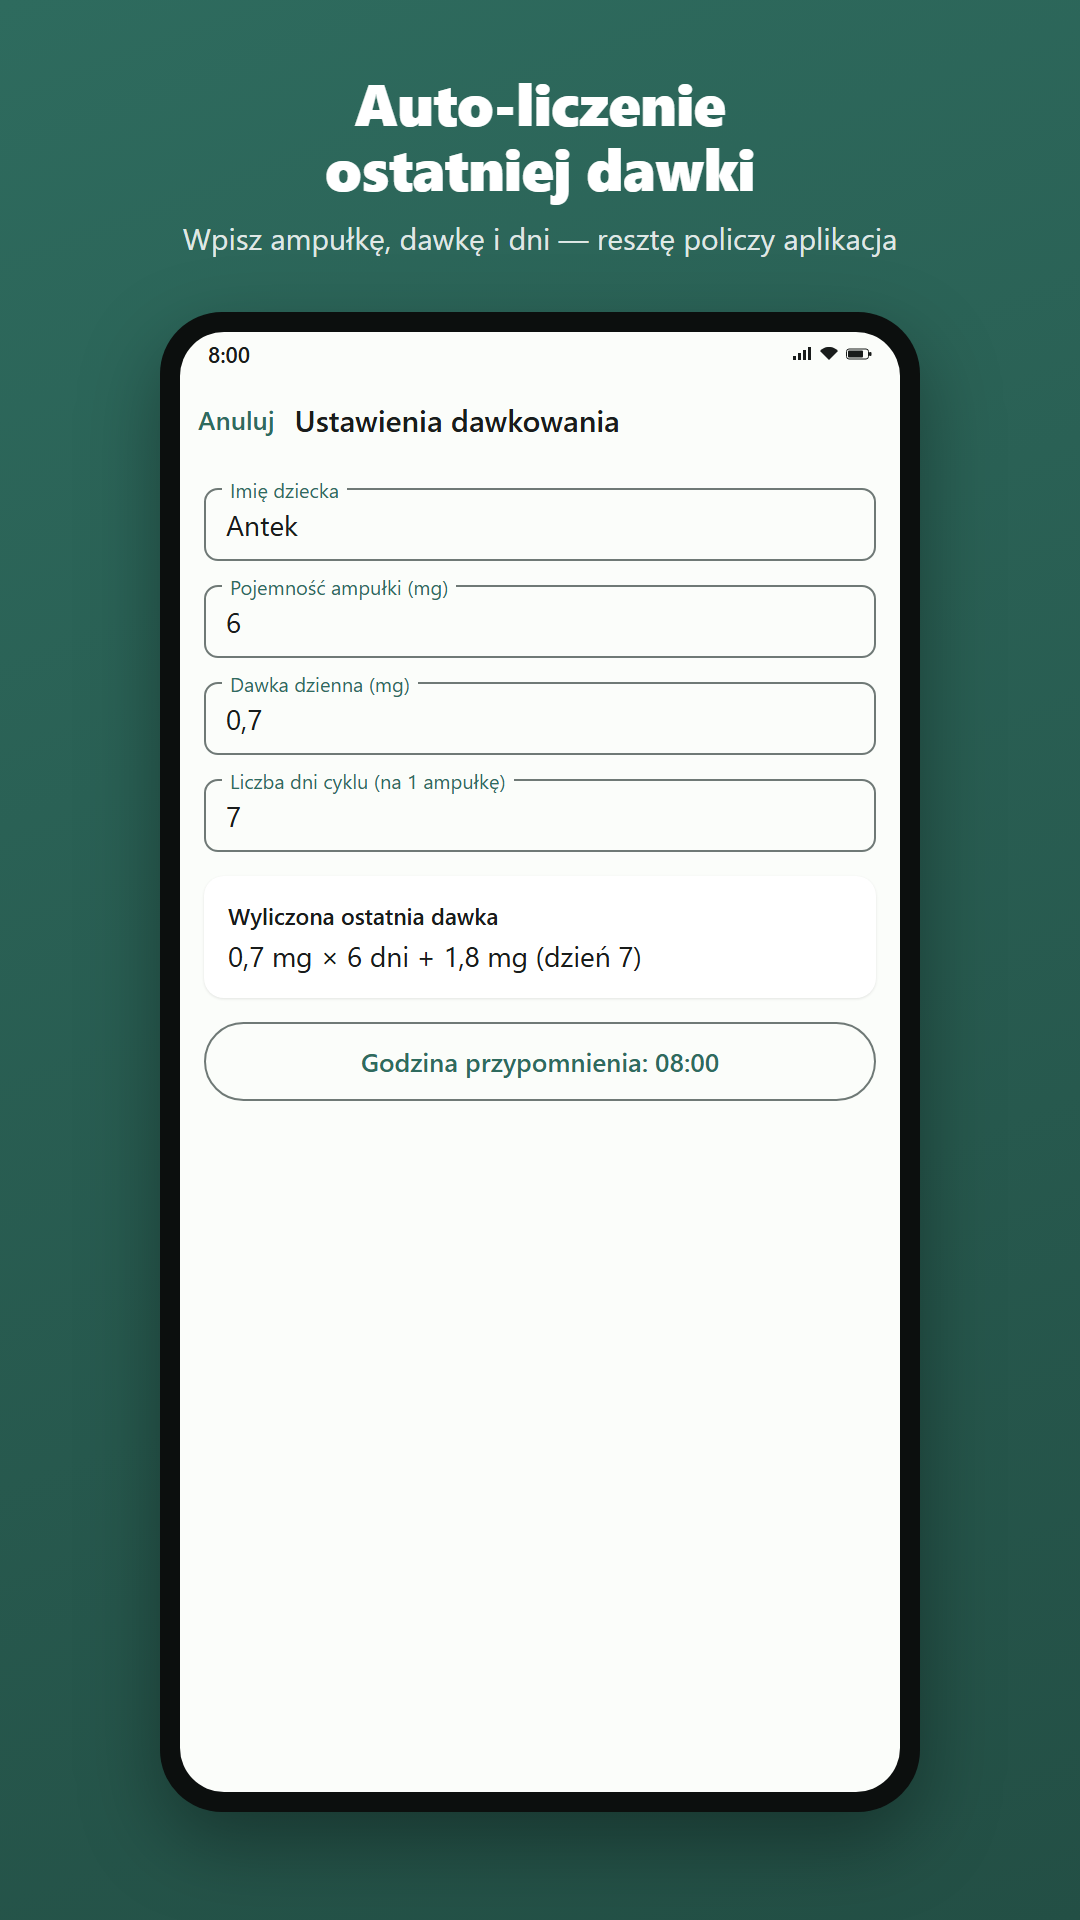
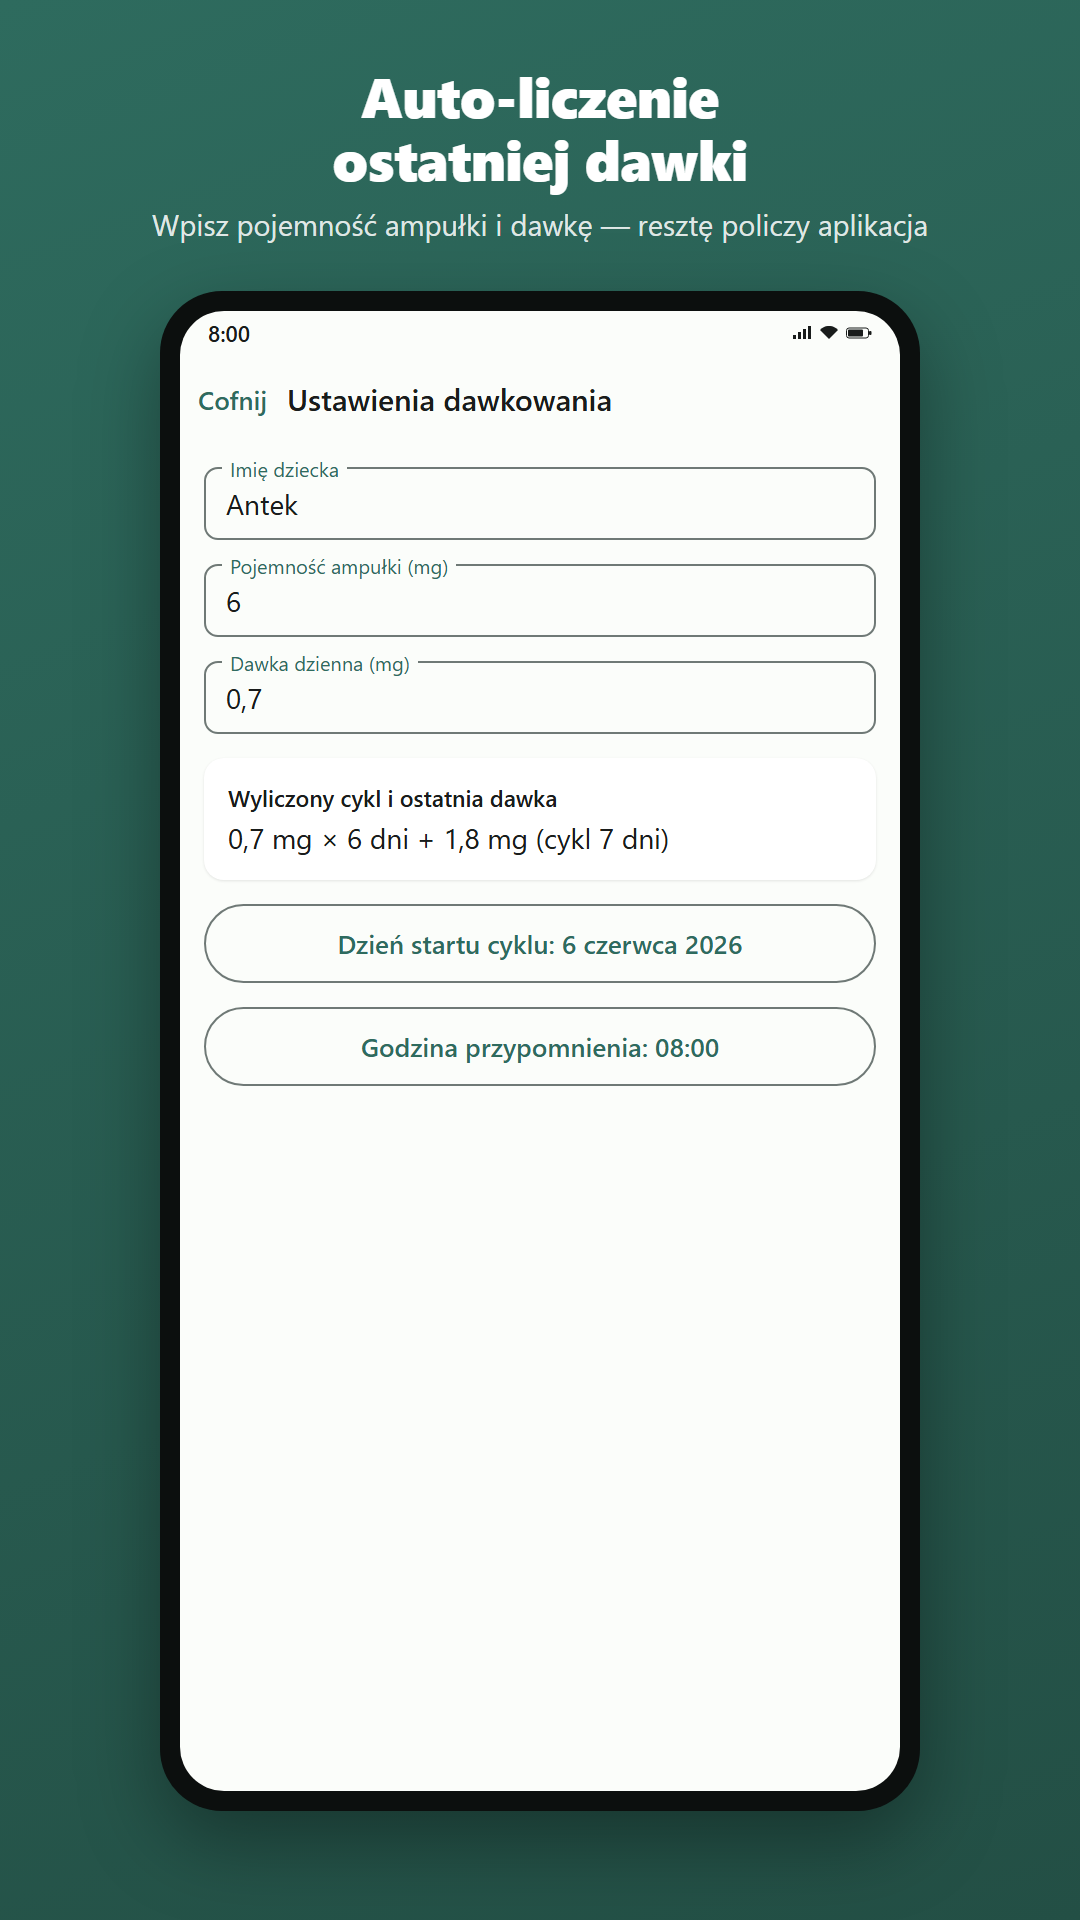
docs: aktualne zrzuty Play (v1.21) + generator i README
Zregenerowane 4 zrzuty (1080x1920) wg aktualnego UI 1.21:
- 01: karta dzien z "Nastepne miejsce" (rotacja) + marker ampulki w kalendarzu.
- 02: przebudowane okno dnia (status segmentowany, miejsce wklucia, "Zapisz").
- 03: ustawienia ("Cofnij", bez nieistniejacego pola "Liczba dni cyklu").
- 04: jezyk + kopie.
Generator gen.py zaktualizowany; README: render przez Chrome headless (Edge
dolaczal do dzialajacej instancji i nic nie zapisywal mimo exit 0).

diff --git a/play-assets/screenshots/gen.py b/play-assets/screenshots/gen.py
@@ -1,8 +1,8 @@
 # -*- coding: utf-8 -*-
 """Generator wiernych makiet ekranów aplikacji -> HTML 1080x1920 (pod Sklep Play).
-Odtwarza UI z kodu Compose: kolory motywu, teksty z values-pl, układ Material 3.
+Odtwarza UI z kodu Compose (v1.21): kolory motywu, teksty z values-pl, układ Material 3.
 """
-import datetime, calendar, os, locale
+import datetime, calendar, os
 
 OUT = os.path.dirname(os.path.abspath(__file__))
 BUILD = os.path.join(OUT, "build")
@@ -13,6 +13,7 @@ PRIMARY = "#2E6B5E"
 PRIMARY_DARK = "#234f45"
 PRIMARY_CONTAINER = "#B8E9DA"   # M3 primaryContainer dla seed #2E6B5E (jasny teal)
 ON_PRIMARY_CONTAINER = "#00201a"
+TERTIARY = "#7B5EA7"
 SURFACE = "#FBFDFA"
 SURFACE_VARIANT = "#DBE5E0"
 ON_SURFACE = "#191C1B"
@@ -50,6 +51,7 @@ def cal_grid():
             if d is None:
                 tds.append('<div class="cell empty"></div>')
                 continue
+            extra = ""
             if d == TODAY_DATE.day:
                 bg, fg, bold = TODAY, "#1A1A1A", "700"
             elif d < TODAY_DATE.day and d in MISSED_DAYS:
@@ -58,8 +60,11 @@ def cal_grid():
                 bg, fg, bold = GIVEN, "#fff", "400"; given += 1
             else:
                 bg, fg, bold = UPCOMING, UPCOMING_TXT, "400"
+            # Marker re-kotwicy „nowa ampułka" — obwódka na dniu otwarcia ampułki.
+            if d == 8:
+                extra = "box-shadow:inset 0 0 0 4px #80D8FF;"
             tds.append(
-                f'<div class="cell" style="background:{bg};color:{fg};font-weight:{bold}">{d}</div>')
+                f'<div class="cell" style="background:{bg};color:{fg};font-weight:{bold};{extra}">{d}</div>')
         html_rows.append('<div class="week">' + "".join(tds) + "</div>")
     return "\n".join(html_rows), given, missed
 
@@ -95,11 +100,12 @@ def today_card():
     return f'''<div class="card today">
       <div class="t-title">Dzisiejsza dawka</div>
       <div class="t-dose">0,7 mg</div>
-      <div class="t-day">{CHILD} • dzień 3/7</div>
+      <div class="t-day">{CHILD} • dzień 3/~7</div>
+      <div class="t-site">Następne miejsce: prawe ramię</div>
       <button class="btn-fill">Oznacz: podano</button>
     </div>'''
 
-def calendar_card(compact=False):
+def calendar_card():
     legend = f'''<div class="legend">
       <span><i style="background:{GIVEN}"></i>Podano</span>
       <span><i style="background:{MISSED}"></i>Pominięto</span>
@@ -121,48 +127,65 @@ def calendar_card(compact=False):
       {legend}
     </div>'''
 
-def summary_card():
-    return f'''<div class="card">
-      <div class="s-med">{MED}</div>
-      <div class="s-row"><div class="s-l">Przypomnienie codziennie o</div><div class="s-v">08:00</div></div>
-      <div class="s-row"><div class="s-l">Schemat</div><div class="s-v">0,7 mg × 6 dni + 1,8 mg</div></div>
-      <div class="s-row"><div class="s-l">Ampułka</div><div class="s-v">6 mg na 7 dni</div></div>
-      <div class="s-row"><div class="s-l">Powiadomienia</div><div class="s-v">włączone</div></div>
+def settings_top():
+    return f'''<div class="topbar settings">
+      <div class="cancel">Cofnij</div>
+      <div class="title-s">Ustawienia dawkowania</div>
     </div>'''
 
-def field(label, value, hint=False):
-    return f'''<div class="tf {'tf-hint' if hint else ''}">
+def field(label, value):
+    return f'''<div class="tf">
       <span class="tf-lab">{label}</span>
       <span class="tf-val">{value}</span>
     </div>'''
 
-def settings_top():
-    return f'''<div class="topbar settings">
-      <div class="cancel">Anuluj</div>
-      <div class="title-s">Ustawienia dawkowania</div>
-    </div>'''
+SITES = ["lewe udo", "prawe ramię", "lewy pośladek", "prawy brzuch",
+         "lewe ramię", "prawe udo", "lewy brzuch", "prawy pośladek"]
+
+def site_chips(selected="lewe udo"):
+    out = []
+    for s in SITES:
+        cls = "dchip sel" if s == selected else "dchip"
+        out.append(f'<div class="{cls}">{s}</div>')
+    return '<div class="chipgrid">' + "".join(out) + "</div>"
 
 def day_dialog():
     return f'''<div class="scrim">
       <div class="dialog">
-        <div class="dlg-x">✕</div>
-        <div class="dlg-title">9 czerwca 2026</div>
-        <div class="dlg-info">Dzień 7/7 • 1,8 mg</div>
-        <div class="dlg-cur">Teraz: Podano</div>
+        <div class="dlg-head">
+          <span class="dlg-chev">‹</span>
+          <span class="dlg-date">8 czerwca 2026</span>
+          <span class="dlg-chev">›</span>
+          <span class="dlg-x">✕</span>
+        </div>
+        <div class="dlg-sub">Podano · Dzień 4/7 • 0,7 mg</div>
+        <div class="otf">
+          <div class="otf-lab" style="color:{PRIMARY}">Podana dawka (mg)</div>
+          <div class="otf-val">0,7</div>
+        </div>
+        <div class="dlg-helper">Wpływa na liczenie zużycia ampułki. Wg planu: 0,7 mg</div>
         <div class="otf">
           <div class="otf-lab">Komentarz (opcjonalnie)</div>
-          <div class="otf-val">Ostatnia z ampułki — jutro nowa.</div>
+          <div class="otf-val">rano, bez problemu</div>
         </div>
-        <div class="dlg-btns">
-          <button class="btn-given">Podano</button>
-          <button class="btn-missed">Pominięto</button>
+        <div class="dlg-seclab">Miejsce wkłucia</div>
+        {site_chips()}
+        <div class="amp-tile">
+          <span class="amp-box"></span>
+          <span class="amp-txt">Nowa ampułka od tego dnia</span>
         </div>
-        <button class="btn-text">Zapisz</button>
+        <div class="dlg-seclab">Status</div>
+        <div class="stat-row">
+          <div class="stat on-g">✓ Podano</div>
+          <div class="stat off">Pominięto</div>
+        </div>
+        <button class="btn-fill">Zapisz</button>
+        <div class="save-hint">Zapisuje zmiany i zamyka okno</div>
       </div>
     </div>'''
 
 # --- Powłoka marketingowa 1080x1920 ---
-def shell(caption, sub, inner, screen_extra="", scrim=False):
+def shell(caption, sub, inner):
     return f'''<!doctype html><html lang="pl"><head><meta charset="utf-8">
 <style>
 * {{ margin:0; padding:0; box-sizing:border-box; }}
@@ -170,13 +193,13 @@ html,body {{ width:1080px; height:1920px; font-family:{FONT}; }}
 .bg {{ width:1080px; height:1920px;
   background:linear-gradient(160deg,{PRIMARY} 0%,{PRIMARY_DARK} 100%);
   display:flex; flex-direction:column; align-items:center; }}
-.caption {{ color:#fff; text-align:center; padding:70px 70px 0; }}
-.caption h1 {{ font-size:58px; font-weight:800; line-height:1.12; letter-spacing:-0.5px; }}
-.caption p {{ font-size:30px; font-weight:400; opacity:.85; margin-top:18px; }}
-.phone {{ position:relative; margin-top:54px; width:760px; height:1500px;
+.caption {{ color:#fff; text-align:center; padding:64px 70px 0; }}
+.caption h1 {{ font-size:56px; font-weight:800; line-height:1.12; letter-spacing:-0.5px; }}
+.caption p {{ font-size:29px; font-weight:400; opacity:.85; margin-top:16px; }}
+.phone {{ position:relative; margin-top:48px; width:760px; height:1520px;
   background:#0c0f0e; border-radius:62px; padding:20px;
   box-shadow:0 30px 80px rgba(0,0,0,.35); }}
-.screen {{ position:relative; width:720px; height:1460px; background:{SURFACE};
+.screen {{ position:relative; width:720px; height:1480px; background:{SURFACE};
   border-radius:44px; overflow:hidden; }}
 .statusbar {{ height:44px; display:flex; align-items:center; justify-content:space-between;
   padding:0 28px; color:{ON_SURFACE}; font-size:22px; font-weight:600; }}
@@ -194,11 +217,12 @@ html,body {{ width:1080px; height:1920px; font-family:{FONT}; }}
 .body {{ padding:24px; display:flex; flex-direction:column; gap:24px; }}
 .card {{ background:{CARD}; border-radius:26px; padding:30px; box-shadow:0 1px 3px rgba(0,0,0,.10); }}
 .today {{ background:{PRIMARY_CONTAINER}; text-align:center; display:flex;
-  flex-direction:column; align-items:center; gap:12px; padding:38px 30px; }}
+  flex-direction:column; align-items:center; gap:10px; padding:38px 30px; }}
 .t-title {{ font-size:28px; font-weight:500; color:{ON_PRIMARY_CONTAINER}; }}
 .t-dose {{ font-size:84px; font-weight:800; color:{ON_PRIMARY_CONTAINER}; line-height:1; }}
 .t-day {{ font-size:28px; color:{ON_PRIMARY_CONTAINER}; }}
-.btn-fill {{ margin-top:14px; width:100%; border:none; background:{PRIMARY}; color:#fff;
+.t-site {{ font-size:25px; color:{ON_PRIMARY_CONTAINER}; opacity:.92; }}
+.btn-fill {{ margin-top:12px; width:100%; border:none; background:{PRIMARY}; color:#fff;
   font-size:28px; font-weight:600; padding:22px; border-radius:100px; font-family:{FONT}; }}
 .cal-head {{ display:flex; align-items:center; justify-content:space-between; margin-bottom:18px; }}
 .cal-month {{ font-size:34px; font-weight:600; color:{ON_SURFACE}; text-transform:none; }}
@@ -237,26 +261,35 @@ html,body {{ width:1080px; height:1920px; font-family:{FONT}; }}
 .chip.sel {{ background:{PRIMARY_CONTAINER}; border-color:{PRIMARY_CONTAINER}; color:{ON_PRIMARY_CONTAINER}; }}
 .lab {{ font-size:23px; font-weight:600; color:{ON_SURFACE}; }}
 .hinttxt {{ font-size:21px; color:{ON_SURFACE_VAR}; }}
-/* dialog */
+/* dialog (v1.21) */
 .scrim {{ position:absolute; inset:0; background:rgba(0,0,0,.32);
-  display:flex; align-items:center; justify-content:center; padding:30px; }}
-.dialog {{ width:100%; background:{CARD}; border-radius:34px; padding:36px; position:relative;
-  display:flex; flex-direction:column; gap:18px; box-shadow:0 20px 60px rgba(0,0,0,.4); }}
-.dlg-x {{ position:absolute; top:28px; right:32px; font-size:30px; color:{ON_SURFACE_VAR}; }}
-.dlg-title {{ font-size:36px; font-weight:600; color:{ON_SURFACE}; padding-right:50px; }}
-.dlg-info {{ font-size:27px; color:{ON_SURFACE}; }}
-.dlg-cur {{ font-size:27px; color:{ON_SURFACE}; }}
-.otf {{ border:2px solid {OUTLINE}; border-radius:14px; padding:20px; position:relative; min-height:110px; }}
+  display:flex; align-items:center; justify-content:center; padding:22px; }}
+.dialog {{ width:100%; background:{CARD}; border-radius:34px; padding:32px; position:relative;
+  display:flex; flex-direction:column; gap:16px; box-shadow:0 20px 60px rgba(0,0,0,.4); }}
+.dlg-head {{ display:flex; align-items:center; gap:10px; }}
+.dlg-chev {{ font-size:42px; font-weight:700; color:{PRIMARY}; }}
+.dlg-date {{ flex:1; text-align:center; font-size:34px; font-weight:600; color:{ON_SURFACE}; }}
+.dlg-x {{ font-size:30px; color:{ON_SURFACE_VAR}; padding-left:6px; }}
+.dlg-sub {{ font-size:25px; color:{ON_SURFACE_VAR}; }}
+.dlg-helper {{ font-size:21px; color:{ON_SURFACE_VAR}; margin-top:-6px; }}
+.dlg-seclab {{ font-size:25px; font-weight:600; color:{ON_SURFACE}; }}
+.otf {{ border:2px solid {OUTLINE}; border-radius:14px; padding:18px 20px; position:relative; }}
 .otf-lab {{ position:absolute; top:-14px; left:16px; background:{CARD}; padding:0 8px;
-  font-size:20px; color:{PRIMARY}; }}
-.otf-val {{ font-size:26px; color:{ON_SURFACE}; }}
-.dlg-btns {{ display:flex; gap:18px; }}
-.btn-given {{ flex:1; border:none; background:{GIVEN}; color:#fff; font-size:28px; font-weight:600;
-  padding:22px; border-radius:100px; font-family:{FONT}; }}
-.btn-missed {{ flex:1; border:none; background:{MISSED}; color:#fff; font-size:28px; font-weight:600;
-  padding:22px; border-radius:100px; font-family:{FONT}; }}
-.btn-text {{ background:none; border:none; color:{PRIMARY}; font-size:28px; font-weight:600;
-  padding:14px; font-family:{FONT}; }}
+  font-size:20px; color:{ON_SURFACE_VAR}; }}
+.otf-val {{ font-size:27px; color:{ON_SURFACE}; }}
+.chipgrid {{ display:grid; grid-template-columns:1fr 1fr; gap:12px; }}
+.dchip {{ border:2px solid {OUTLINE}; border-radius:12px; padding:16px; text-align:center;
+  font-size:24px; color:{ON_SURFACE}; }}
+.dchip.sel {{ background:{PRIMARY_CONTAINER}; border-color:{PRIMARY}; color:{ON_PRIMARY_CONTAINER}; font-weight:600; }}
+.amp-tile {{ display:flex; align-items:center; gap:16px; border:2px solid {OUTLINE};
+  border-radius:14px; padding:18px 20px; }}
+.amp-box {{ width:34px; height:34px; border:3px solid {OUTLINE}; border-radius:7px; flex:0 0 auto; }}
+.amp-txt {{ font-size:26px; color:{ON_SURFACE}; }}
+.stat-row {{ display:flex; gap:18px; }}
+.stat {{ flex:1; border-radius:16px; padding:22px; text-align:center; font-size:28px; font-weight:600; }}
+.stat.on-g {{ background:{GIVEN}; color:#fff; }}
+.stat.off {{ background:none; border:3px solid {OUTLINE}; color:{ON_SURFACE_VAR}; }}
+.save-hint {{ font-size:21px; color:{ON_SURFACE_VAR}; text-align:center; }}
 </style></head><body>
 <div class="bg">
   <div class="caption"><h1>{caption}</h1><p>{sub}</p></div>
@@ -271,24 +304,24 @@ html,body {{ width:1080px; height:1920px; font-family:{FONT}; }}
 screens = {
   "01-dashboard": shell(
       "Kalendarz i dawka<br>na ekranie głównym",
-      "Dzisiejsza dawka, historia podań i szybkie „Oznacz: podano”",
+      "Dzisiejsza dawka, podpowiedź miejsca wkłucia i historia podań",
       topbar() + f'<div class="body">{today_card()}{calendar_card()}</div>'),
 
   "02-dzien": shell(
-      "Oznacz podanie<br>i dodaj komentarz",
-      "Podano / pominięto — także wstecz, z notatką do dnia",
+      "Zapisz dzień: dawka,<br>miejsce i status",
+      "Wybierasz status, miejsce i dawkę — zatwierdza przycisk „Zapisz”",
       topbar() + f'<div class="body">{calendar_card()}</div>' + day_dialog()),
 
   "03-ustawienia": shell(
       "Auto-liczenie<br>ostatniej dawki",
-      "Wpisz ampułkę, dawkę i dni — resztę policzy aplikacja",
+      "Wpisz pojemność ampułki i dawkę — resztę policzy aplikacja",
       settings_top() + f'''<div class="body">
         {field("Imię dziecka", CHILD)}
         {field("Pojemność ampułki (mg)", "6")}
         {field("Dawka dzienna (mg)", "0,7")}
-        {field("Liczba dni cyklu (na 1 ampułkę)", "7")}
-        <div class="calc"><div class="calc-t">Wyliczona ostatnia dawka</div>
-          <div class="calc-v">0,7 mg × 6 dni + 1,8 mg (dzień 7)</div></div>
+        <div class="calc"><div class="calc-t">Wyliczony cykl i ostatnia dawka</div>
+          <div class="calc-v">0,7 mg × 6 dni + 1,8 mg (cykl 7 dni)</div></div>
+        <div class="obtn">Dzień startu cyklu: 6 czerwca 2026</div>
         <div class="obtn">Godzina przypomnienia: 08:00</div>
       </div>'''),
 

diff --git a/play-assets/README.md b/play-assets/README.md
@@ -7,7 +7,7 @@ Grafiki do listingu w Sklepie Play (wygenerowane spójnie z ikoną aplikacji).
 | `icon-512.png` | 512×512 | Ikona aplikacji (Play zaokrągla rogi automatycznie) | ✅ gotowe |
 | `feature-1024x500.png` | 1024×500 | Grafika promocyjna (feature graphic) | ✅ gotowe |
 | `screenshots/01-ekran-glowny.png` | 1080×1920 | Zrzut: ekran główny (kalendarz + dawka) | ✅ gotowe |
-| `screenshots/02-okno-dnia.png` | 1080×1920 | Zrzut: okno dnia (podano/pominięto + komentarz) | ✅ gotowe |
+| `screenshots/02-okno-dnia.png` | 1080×1920 | Zrzut: okno dnia (status, miejsce wkłucia, dawka — zapis „Zapisz”) | ✅ gotowe |
 | `screenshots/03-ustawienia.png` | 1080×1920 | Zrzut: ustawienia (auto‑liczenie dawki) | ✅ gotowe |
 | `screenshots/04-jezyk-kopie.png` | 1080×1920 | Zrzut: język + kopie zapasowe | ✅ gotowe |
 
@@ -18,12 +18,15 @@ i w oprawie telefonu, w spójnej kolorystyce marki. Odtworzone wiernie z UI apli
 (te same kolory motywu, teksty z `values-pl`, układ Material 3).
 
 Generator: [`screenshots/gen.py`](screenshots/gen.py) tworzy pliki HTML w `screenshots/build/`,
-które renderujemy do PNG przez Edge headless:
+które renderujemy do PNG przez Chrome headless (Edge potrafi „dołączyć” do działającej
+instancji i NIC nie zapisać mimo exit 0 — używaj Chrome albo Edge z osobnym `--user-data-dir`):
 ```
 py screenshots/gen.py
-msedge --headless=new --force-device-scale-factor=1 --window-size=1080,1920 \
-  --screenshot=out.png "file:///.../build/01-dashboard.html"
+chrome --headless=new --disable-gpu --hide-scrollbars --force-device-scale-factor=1 \
+  --window-size=1080,1920 --user-data-dir="$(mktemp -d)" \
+  --screenshot=01-ekran-glowny.png "file:///.../build/01-dashboard.html"
 ```
+Mapowanie nazw: 01-dashboard→01-ekran-glowny, 02-dzien→02-okno-dnia, 03-ustawienia, 04-jezyk-kopie.
 
 Wymogi Play (spełnione): PNG/JPEG, min. 320 px, maks. 3840 px, proporcje 16:9 lub 9:16.
 
